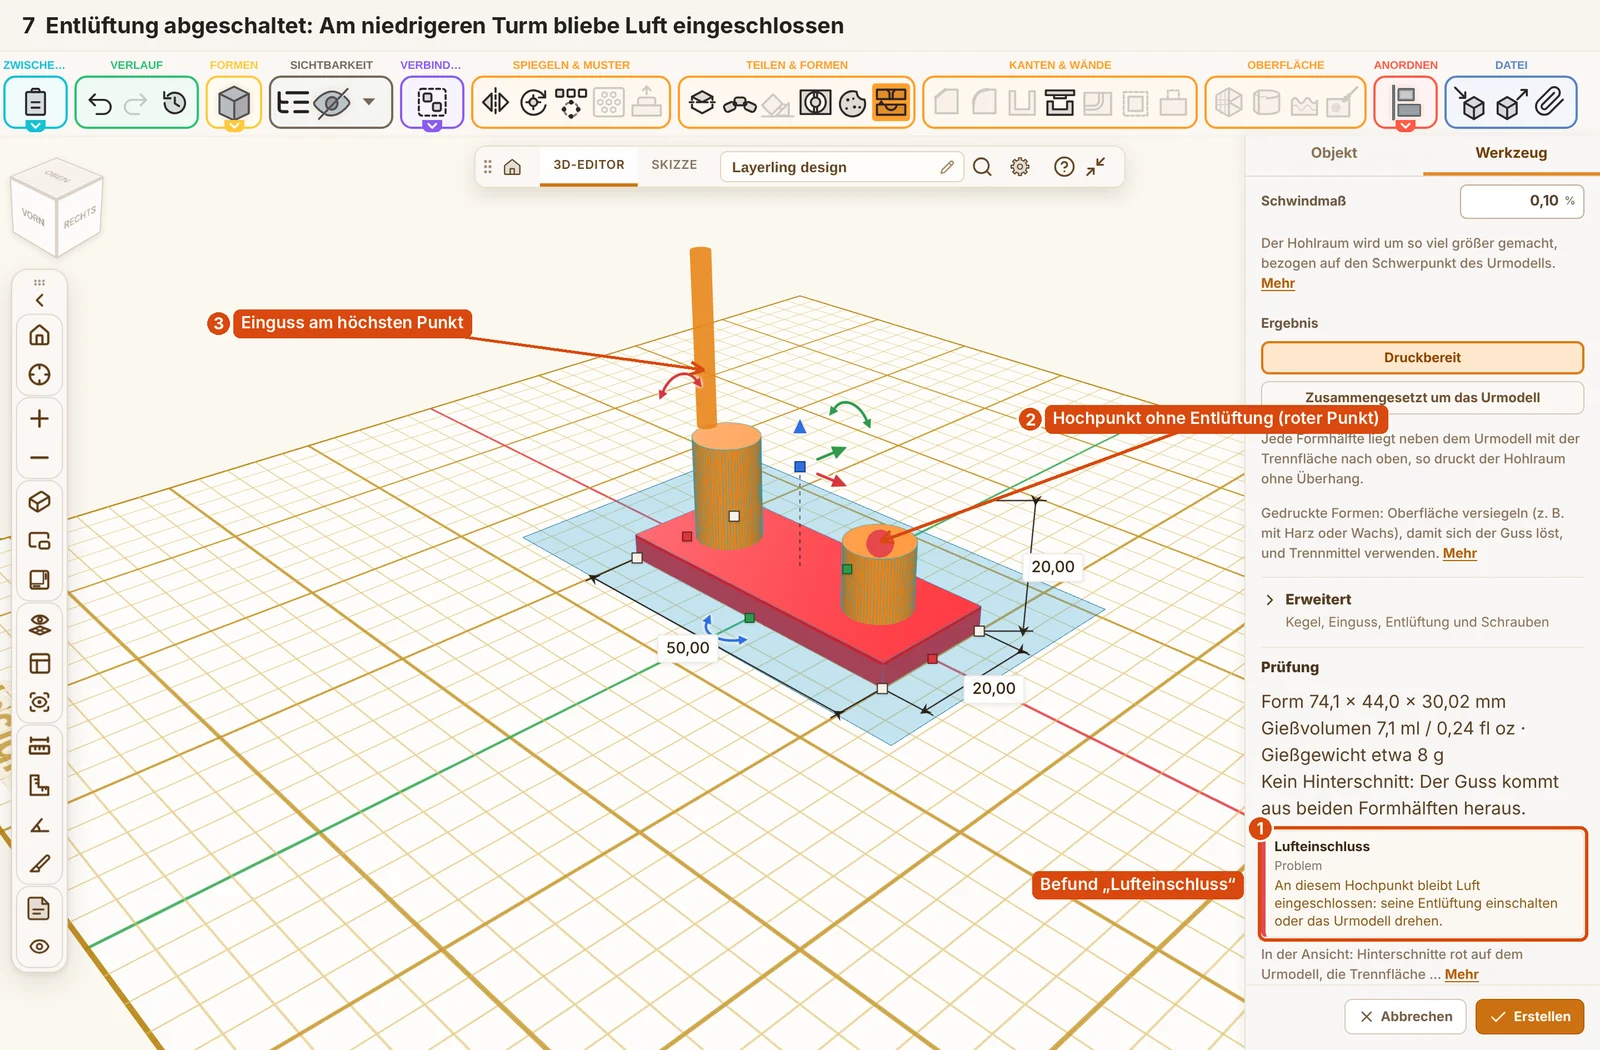
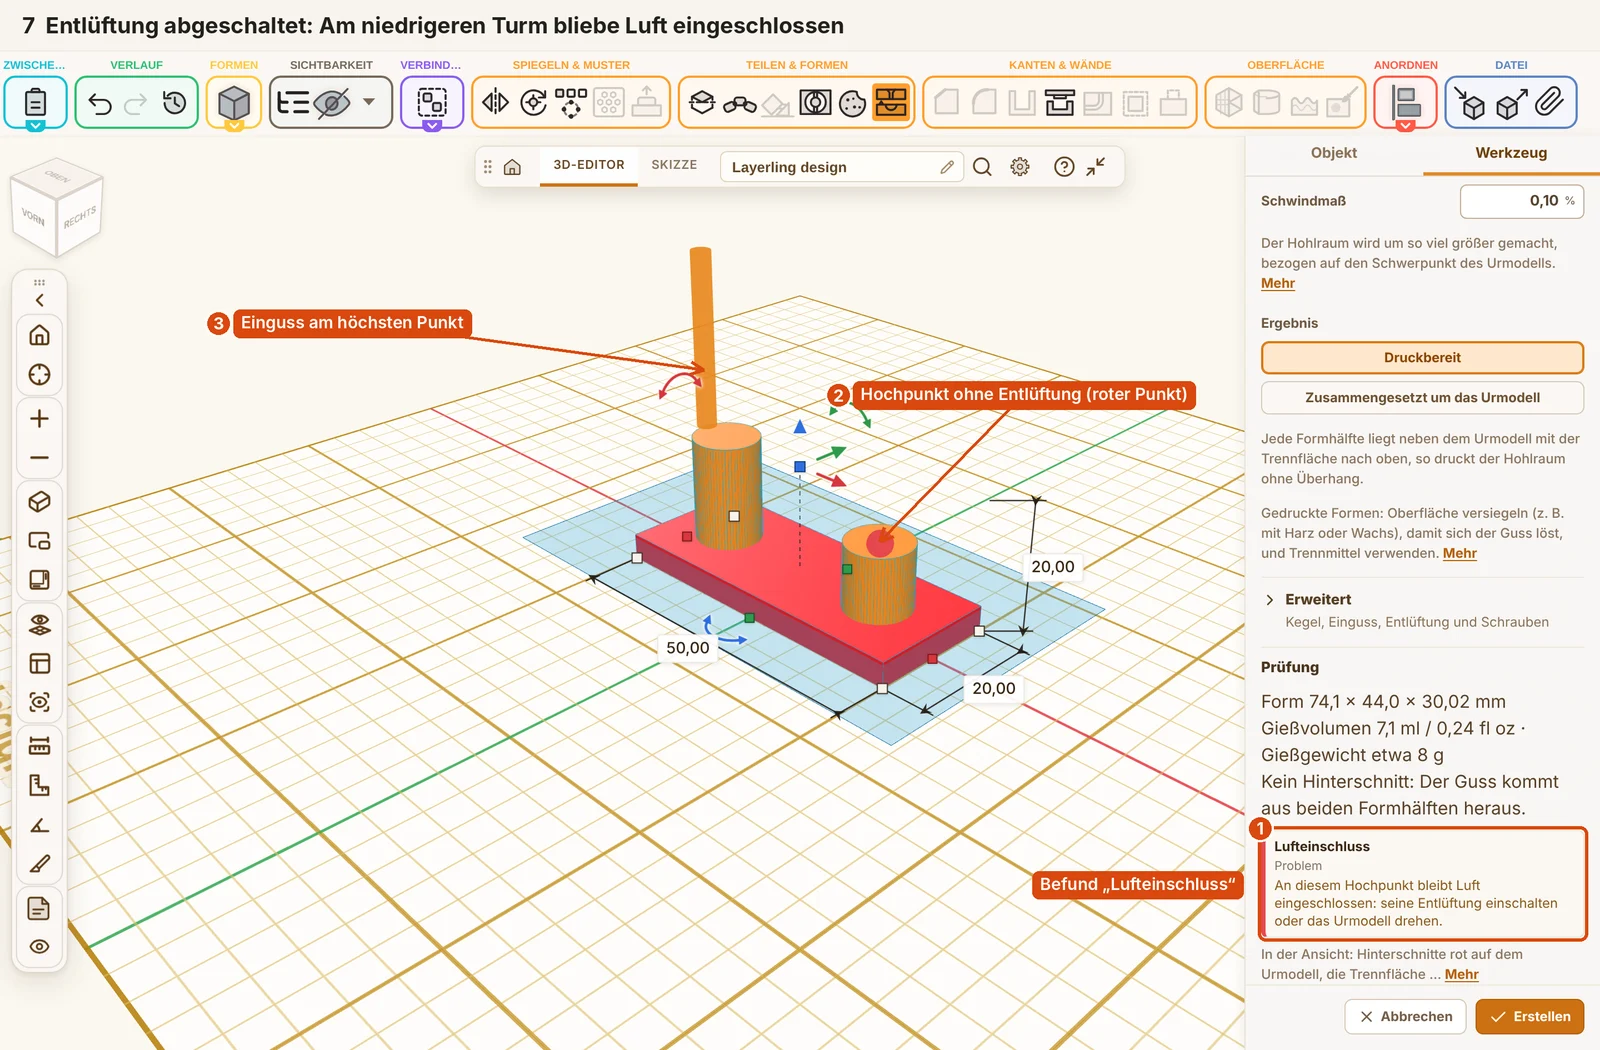
docs: picture guide in English, with English screenshots
Claude-Session: https://claude.ai/code/session_01U6NM2J7dd79pkwCMPxv7JA

Changed region(s): [[0.5, 0.3352, 0.875, 0.4571], [0.5312, 0.4571, 0.6562, 0.5181]]

diff --git a/uebergabe/druckanalyse-gussform/GUIDE-EN.md b/uebergabe/druckanalyse-gussform/GUIDE-EN.md
@@ -1,0 +1,203 @@
+# Picture guide: print analysis, molds and stamps (17 Nov 2026)
+
+Each picture shows one step. The orange numbers in the picture are explained below it. All pictures are in `bilder/en/`.
+
+---
+
+## Part A – Print analysis with the layer view
+
+The print analysis checks the whole part in one go, layer by layer. It finds the problems, and the layer view shows why they are problems. You don't have to page through the layers yourself.
+
+### A1 – Start
+
+![Start the print analysis](bilder/en/A1-knopf.webp)
+
+1. **Print analysis** in the toolbar, in the "Combine" group.
+2. Next to it is **Print check**, the quick check without layers.
+
+Select the parts and click **Print analysis**. With nothing selected, every visible part is checked.
+
+### A2 – Settings
+
+![Settings](bilder/en/A2-einstellungen.webp)
+
+1. **Layer height**, as in your slicer (0.10 to 0.28 with one click, any other value in the field). Below it the **nozzle**.
+2. **Advanced → Limits**: when an overhang is a hint (45°) or a problem (60°), from which span a bridge is reported (10 mm), how thin a wall may be (2 × nozzle), how small an island (2 mm²), and below which area nothing is rated (0.05 mm²).
+
+The check runs in the background with a progress bar. **Stop** ends it at once. A part with 100,000 triangles takes about a second at 0.2 mm.
+
+### A3 – The findings
+
+![Findings](bilder/en/A3-befundliste.webp)
+
+1. **Summary**: how many problems and hints, or "No findings".
+2. **Filter** by kind (e.g. only overhangs) and by part.
+3. **Problem** (red stripe): the print will not work like this.
+4. **Hint** (yellow stripe): may work, worth a look.
+5. **What helps**: the remedy in one sentence.
+6. **Tool button**: opens the matching tool, here the support rib. Other findings have "Lay on workplane" or "Lay flat".
+
+Each line gives the layer, height, measured value and area, e.g. "Layer 101 (20.0 mm): Area without support 89°, 2.53 cm²". The same spot over many layers is **one** finding.
+
+### A4 – Click a finding: the layer view
+
+![Layer view](bilder/en/A4-schichtansicht.webp)
+
+1. **Layer, height, separate areas, area** of the layer shown, and the kind of the chosen finding.
+2. **Layer slider**: upright like the part, layer 1 at the bottom. Drag or click.
+3. **Marks**: one stripe per finding (yellow hint, red problem). A click jumps there.
+4. **Area by height**: the chart of the cross-section. A click jumps to that layer. You can see the jump at layer 101, where the crossbar starts.
+5. **Show**: Up to here, Only this layer, From – to.
+6. **Shadow**: the layers still to come as faint lines.
+7. **Play** at 5 to 50 layers per second.
+8. **Problem area**, painted red (yellow for a hint).
+9. **Current layer**: the part is cut open here. Everything below stays visible.
+10. **Layers to come**, faint, so you see what is still ahead.
+
+Keys on the slider: ↑ ↓ one layer, Page ↑ ↓ ten, Home and End, Space plays, N next finding, Shift+N the one before.
+
+### A5 – Step through the layers
+
+![Lower](bilder/en/A5-tiefer.webp)
+
+1. Twelve layers lower with ↓: only the post is here, the arms come later. That is exactly the problem: the arms start in the air.
+
+### A6 – Only this layer
+
+![Only this layer](bilder/en/A6-nur-diese-schicht.webp)
+
+1. **Only this layer** shows a single layer: the first layer of the crossbar. Red are the parts without support, blue the part above the post.
+
+### A7 – Apply a remedy
+
+![Out of date](bilder/en/A7-veraltet.webp)
+
+1. After "Lay on workplane" on the finding "Part is in the print bed" the design has changed. The list is marked **out of date**. Click it to check again.
+
+### A8 – Checked again
+
+![After](bilder/en/A8-nachher.webp)
+
+1. One problem fewer: the ball now lies on the workplane. Undo takes it back in one step, as always.
+
+**Important:** the print analysis is no slicer preview. Supports, infill and print time come from your slicer. When you close it, the camera goes back to where it was.
+
+### Findings and remedies at a glance
+
+| Finding | What it means | Remedy |
+|---|---|---|
+| Part is in the print bed | A part reaches below the workplane. Those layers are left out. | Lay on workplane (key D) |
+| Part floats above the workplane | The first layer would be laid into the air. | Lay on workplane |
+| Body not closed | The mesh has holes. | Repair the mesh, "Make exact" |
+| Larger than the build volume | Doesn't fit the chosen printer. | Make it smaller, turn it, split it |
+| Area without support | A place starts with no layer under it. | Turn it, support rib, slicer supports |
+| Overhang | Steeper than 45° (a problem from 60°). | Turn it, chamfer instead of overhang |
+| Bridge | Free span over 10 mm. | Support rib in the middle, turn it |
+| Thin wall | Thinner than two lines of the nozzle. | Make the wall thicker |
+| Small island | A thin pin under 2 mm². | Make it thicker or join it to the rest |
+| Bed adhesion | Little area on the bed for the height. | Turn onto a larger face, brim |
+
+---
+
+## Part B – Molds
+
+### B1 – Start
+
+![Start the mold tool](bilder/en/B1-knopf.webp)
+
+1. Select the master (here a ball on a pyramid base) and open **Mold & die**.
+
+### B2 – Casting material and opening direction
+
+![Material and direction](bilder/en/B2-material-richtung.webp)
+
+1. **Casting material**: silicone gives way, so small undercuts are only a hint. In casting resin, plaster and the rest, every undercut sticks. The material also sets shrinkage and density.
+2. **Opening direction**: Layerling works out all three directions and preselects the one with the least undercut. The number on each button is the share of the surface that would stick.
+3. **Parting face**: upright here, because the mold opens left and right.
+
+### B3 – For comparison: up/down
+
+![Undercut](bilder/en/B3-hinterschnitt.webp)
+
+1. Up/down would have **49 % undercut**.
+2. **Red**: the faces that would stick (the lower half of the ball above the base).
+3. **Sprue** (orange) at the highest point.
+4. **Parting face** (blue), level here.
+
+That is why Layerling suggests left/right for this part.
+
+### B4 – More settings
+
+![Options](bilder/en/B4-optionen.webp)
+
+1. **Outside**: a block (simple, sturdy) or a contour shell (saves filament, prints without supports).
+2. **Vents**: each one can be switched on and off.
+
+Also: keys, sprue with funnel, pry slots, clamp ears, **bolt holes**, **rubber band grooves**, **shrinkage** and **result** (ready to print or closed round the master). Under "Advanced": sizes, play, moving the sprue (X/Y), draft, density.
+
+### B5 – Check and make
+
+![Check](bilder/en/B5-pruefung.webp)
+
+1. **Check**: outside size of the mold, pour volume with the sprue (ml and fl oz), cast weight, undercut, "The air can escape".
+2. **Make**.
+
+### B6 – The result
+
+![Result](bilder/en/B6-ergebnis.webp)
+
+1. **Cavity**.
+2. **Key**.
+3. **Smaller key**: the halves fit together only one way.
+4. **Pry slot** for a screwdriver or spatula.
+5. **Holes for the keys** in the other half.
+
+Both mold halves lie with the parting face up, so the cavity prints without overhang. The master stays as it is. **Make the mold again:** select a mold half and click the button. The window opens with the old settings, and the parts are replaced in one undo step.
+
+### B7 – Air trap
+
+![Air trap](bilder/en/C1-lufteinschluss.webp)
+
+1. Finding **Air trap**, because the vent at the short tower was switched off.
+2. **Red dot**: the high point where air would stay trapped.
+3. **Sprue** at the highest point (tall tower).
+
+Without a finding, the window says "The air can escape".
+
+---
+
+## Part C – Stamp & die with relief
+
+### C1 – Emboss relief
+
+![Relief window](bilder/en/D1-relief-fenster.webp)
+
+1. Under **Stamp & die**, choose the use **Emboss relief**. The stamp then takes over the master's relief.
+
+### C2 – The result
+
+![Relief result](bilder/en/D2-relief-ergebnis.webp)
+
+1. **Master**: a coin with a raised heart.
+2. **Stamp** with the relief.
+3. **Thinner pin**: the fourth guide pin is thinner, so the die fits only one way.
+4. **Die**: to turn over onto the stamp. The relief is larger by the sheet's thickness.
+
+Put the sheet (leather, card, foil) between stamp and die and press.
+
+---
+
+## Common mold problems
+
+| Problem | Remedy |
+|---|---|
+| Undercut (red) | Take the suggested direction, move the parting, turn the master, or use a silicone pour box |
+| Air trap | Switch on the vent at this high point, or turn the master |
+| Too little draft | Give the faces 1° or more of draft, or cast in silicone |
+| Mold too big or heavy | Choose the contour shell, a thinner wall (not under 3 mm) |
+| Cast sticks | Seal the mold (resin or wax), use release agent. PLA softens from about 55 °C |
+
+## For AI helpers (MCP)
+
+- New tool `layerling_check_layers`: the print analysis, answering with the list of findings.
+- `layerling_make_mold` now takes `direction`, `castMaterial`, `shrinkage`, `density`, `draftLimit`, `outer`, `screws`, `bands`, `ventsOff`, `sprueShiftX/Y`, `output` and `dieMode: "relief"`. The answer includes an `analysis` with the figures for each direction.
